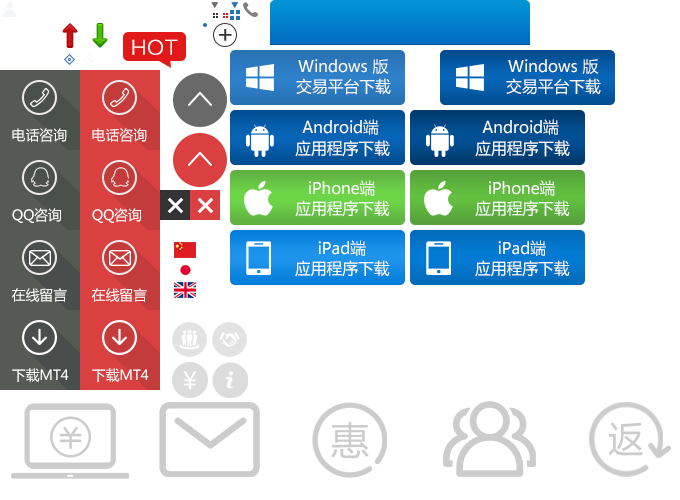
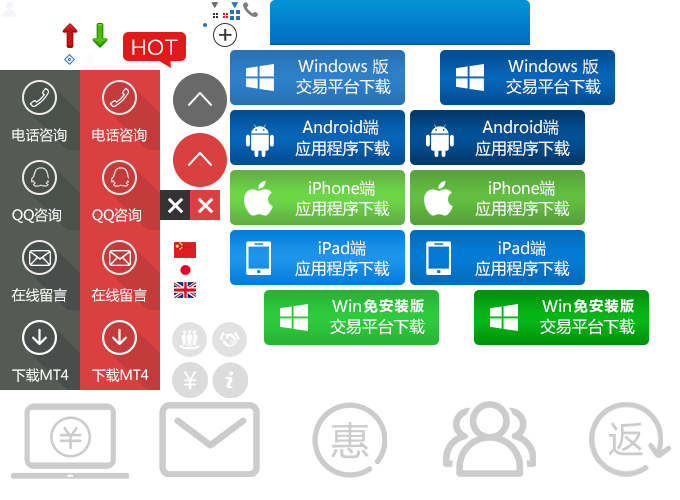
每日更新 10-25

Changed region(s): [[0.6794, 0.57, 0.9574, 0.69], [0.3706, 0.57, 0.6485, 0.69]]

diff --git a/index.html b/index.html
@@ -989,7 +989,9 @@ HEADER
 
 
                     <p>
-                        <a href="http://static.fxbtg-bank.com/CN/clientdown/FXBTG-MT4.exe" class="pc_button"></a><br/>
+                        <a href="http://static.fxbtg-bank.com/CN/clientdown/FXBTG-MT4.exe" class="pc_button"></a>
+                        <a href="http://static.fxbtg-bank.com/CN/clientdown/FXBTG-MT4.zip" class="pc2_button"></a>
+                        <br/>
                         <a class="btn btn-dc btn-small btn-main-color"
                            href="http://www.fxbtg-bank.com/Flv/advVideo/XMTY5OTcwNDg5Ng==">查看使用教程</a>
                     </p>
@@ -1108,7 +1110,7 @@ HEADER
         </div>
     </section>
     <!-- ==============================================
-	   每日分析  10-25
+	   每日分析  FXBTG：昙花一现，油价暴涨暴跌
 	   =============================================== -->
     <section id="about" class="big-padding">
         <div class="container">
@@ -1125,18 +1127,19 @@ HEADER
                     <ul class="timeline-v2">
                         <li class="equal-height-columns">
                             <div class="cbp_tmtime equal-height-column" style="height: 162px;">
-                                <span>16年10月25日</span>
+                                <span>16年10月27日</span>
                                 <span>September 2016</span>
                             </div>
                             <i class="cbp_tmicon rounded-x hidden-xs"></i>
                             <div class="cbp_tmlabel equal-height-column" style="height: 192px;">
-                                <h2>FXBTG：大选临近，美元强势攀升</h2>
+                                <h2>FXBTG：昙花一现，油价暴涨暴跌</h2>
                                 <h3>行情回顾</h3>
                                 <p>
-                                    随着大选临近及美元12月加息预期升温，10月24日（周一）美元指数强势突破2016年3月高点98.58，市价最高触及98.81，收盘98.75，后市剑指99.50压力关口。</p>
+                                    10月26日（周三）EIA公布的原油数据显示，上周美国原油库存意外下滑，油价短线拉升，油价突破50美元/桶关口。但受尼日利亚产量增加与产油国对减产计划的争执，原油市价随后快速回吐涨幅。</p>
                                 <h3>市场概况</h3>
                                 <p>
-                                    受美联储(FED)今年将加息的预期以及共和党总统候选人特朗普赢得大选的可能性下降等因素支撑。市场在消息面清谈状况下，美元指数强势突破2016年3月高点，非美货币则经短暂调整，再次回落。黄金市价维持1260---1270区间震荡。</p>
+                                    受美联储11月政策会议和11月8日美国总统选举影响，外汇市场投机情绪减弱，非美货币涨跌不一，欧元从周二触及的七个半月低点1.0848美元反弹，英镑兑美元上涨0.28%，黄金交投清淡，金价维持1276.00---1260.00小区域波动。
+                                </p>
 
                                 <h3>图表分析</h3>
                                 <!-- ##第二区 服务项目 开始-->
@@ -1163,13 +1166,13 @@ HEADER
                                     <div class="row tab-pane active" id="tu6">
                                         <div class="col-md-8">
                                             <p>EURUSD</p>
-                                            <P>欧元 市价运动类型：震荡空头 交易策略：利用市价反弹介入空头，多头观望。</P>
+                                            <P>欧元 市价运动类型：震荡 交易策略：以1.0900为分界岭进行多空选项操作或观望。</P>
 
                                             <!--  <P>交易策略：利用市价反弹寻找空头介入时机，短期目标1.1100---1.1070区域。 </P>-->
                                         </div>
                                         <div class="col-md-4">
                                             <img class="img-responsive"
-                                                 src="https://static.fxbtg-bank.com/UploadImages/2016/10/25/09c7b1df-8c1c-4e34-babf-57db5f5ba9cd.png"
+                                                 src="https://static.fxbtg-bank.com/UploadImages/2016/10/27/5ba91897-c5e2-48fb-bd21-991405d862a2.png"
                                                  alt="">
                                             <div class="md-margin-bottom-20"></div>
                                         </div>
@@ -1177,11 +1180,11 @@ HEADER
                                     <div class="row tab-pane" id="tu7">
                                         <div class="col-md-8">
                                             <p>GBPUSD</p>
-                                            <P>英镑 市价运动类型：震荡空头 英镑 市价运动类型：震荡 英镑 市价运动类型：震荡 交易策略：维持震荡空头思路，市价反弹压力区域介入空头。 </P>
+                                            <P>英镑 市价运动类型：震荡 交易策略：1.2280---1.2320区域介入空头，多头观望。</P>
                                         </div>
                                         <div class="col-md-4">
                                             <img class="img-responsive"
-                                                 src="https://static.fxbtg-bank.com/UploadImages/2016/10/25/dd8229be-2d8e-4a36-b37d-6d42766e1e77.png"
+                                                 src="https://static.fxbtg-bank.com/UploadImages/2016/10/27/2265a8de-330f-475a-882b-e8a4b9a19e78.png"
                                                  alt="">
                                             <div class="md-margin-bottom-20"></div>
                                         </div>
@@ -1189,12 +1192,12 @@ HEADER
                                     <div class="row tab-pane" id="tu8">
                                         <div class="col-md-8">
                                             <p>USDJPY</p>
-                                            <P>日元 市价运动类型：震荡多头 交易策略：104.00上方维持多头思路操作，止损104.80，短期目标105.30区域，空头观望。</P>
+                                            <P>日元 市价运动类型：震荡 交易策略：104.80--105.00区域介入空头或观望 。</P>
                                             <!-- <P>交易策略：保持短期多头思路，利用市价回落支撑区域介入多头。</P>-->
                                         </div>
                                         <div class="col-md-4">
                                             <img class="img-responsive"
-                                                 src="https://static.fxbtg-bank.com/UploadImages/2016/10/25/5c38b1c8-26d0-45e9-8c90-edf9c2670d25.png"
+                                                 src="https://static.fxbtg-bank.com/UploadImages/2016/10/27/14b47851-6b26-4f41-9bb1-0e8d8bd4a89d.png"
                                                  alt="">
                                             <div class="md-margin-bottom-20"></div>
                                         </div>
@@ -1202,12 +1205,12 @@ HEADER
                                     <div class="row tab-pane" id="tu9">
                                         <div class="col-md-8">
                                             <p>XAUUSD</p>
-                                            <P>黄金 市价运动类型：震荡 交易策略：中期观望，日内市价跌破1260轻仓跟随空头。</P>
+                                            <P>黄金 市价运动类型：震荡 交易策略：1260.00区域介入多头或观望。</P>
 
                                         </div>
                                         <div class="col-md-4">
                                             <img class="img-responsive"
-                                                 src="https://static.fxbtg-bank.com/UploadImages/2016/10/25/51f83fc5-f35b-4ee4-9dca-62cf203b0180.png"
+                                                 src="https://static.fxbtg-bank.com/UploadImages/2016/10/27/7487a831-d0df-42f4-9790-9c14f4785f72.png"
                                                  alt="">
                                             <div class="md-margin-bottom-20"></div>
                                         </div>
@@ -1216,11 +1219,12 @@ HEADER
 
                                         <div class="col-md-8">
                                             <p>XTIUSD</p>
-                                            <p>美原油 市价运动类型：震荡 交易策略：支撑区域寻找多头交易机会或观望。 </p>
+                                            <p>美原油 市价运动类型：震荡
+                                                交易策略：49.00---48.80区域介入多头，止损48.70，日内目标49.80----50.00，空头观望。</p>
                                         </div>
                                         <div class="col-md-4">
                                             <img class="img-responsive"
-                                                 src="https://static.fxbtg-bank.com/UploadImages/2016/10/25/911feaa4-50af-4005-84df-ae85b47213f9.png"
+                                                 src="https://static.fxbtg-bank.com/UploadImages/2016/10/27/ca7f24e0-cbe6-46d0-bdad-441925613a34.png"
                                                  alt="">
                                             <div class="md-margin-bottom-20"></div>
                                         </div>
@@ -1229,21 +1233,22 @@ HEADER
 
                             </div>
                         </li>
-                        <li class="equal-height-columns">
-                            <div class="cbp_tmtime equal-height-column" style="height: 162px;">
-                                <span>16年10月24日</span>
-                                <span>September 2016</span>
-                            </div>
-                            <i class="cbp_tmicon rounded-x hidden-xs"></i>
-                            <div class="cbp_tmlabel equal-height-column" style="height: 192px;">
-                                <h2>FXBTG：德拉基论调打压欧元，美元借势上扬</h2>
-                                <h3>行情回顾</h3>
-                                <p>近来的经济数据表现亮眼的同时，希拉里在美国大选的优势亦日益明显，美元随着多重利好因素节节攀高，美元指数涨至八个月高位98.78。</p>
-                                <h3>市场概况</h3>
-                                <p>
-                                    本月欧洲央行本月利率决议公布及欧洲央行会后声明平淡温和，欧元兑美元惨淡下跌的同时带动其他非美货币下跌，美元强势上扬。而黄金受1250买盘支撑，市价升至1260上方。</p>
-                                <h3>图表分析</h3>
-                                <!-- ##第二区 服务项目 开始-->
+                        <!-- ==============================================
+					   <li class="equal-height-columns">
+						   <div class="cbp_tmtime equal-height-column" style="height: 162px;">
+							   <span>16年10月24日</span>
+							   <span>September 2016</span>
+						   </div>
+						   <i class="cbp_tmicon rounded-x hidden-xs"></i>
+						   <div class="cbp_tmlabel equal-height-column" style="height: 192px;">
+							   <h2>FXBTG：德拉基论调打压欧元，美元借势上扬</h2>
+							   <h3>行情回顾</h3>
+							   <p>近来的经济数据表现亮眼的同时，希拉里在美国大选的优势亦日益明显，美元随着多重利好因素节节攀高，美元指数涨至八个月高位98.78。</p>
+							   <h3>市场概况</h3>
+							   <p>
+								   本月欧洲央行本月利率决议公布及欧洲央行会后声明平淡温和，欧元兑美元惨淡下跌的同时带动其他非美货币下跌，美元强势上扬。而黄金受1250买盘支撑，市价升至1260上方。</p>
+							   <h3>图表分析</h3>
+
                                 <div class="text-center">
                                     <div class="btn-group">
                                         <button type="button" href="#tu11" class="btn btn-default toggle-tabs active">
@@ -1268,7 +1273,7 @@ HEADER
                                         <div class="col-md-8">
                                             <p>EURUSD</p>
                                             <P>欧元 市价运动类型：震荡空头 交易策略：维持空头操作，多头回避。</P>
-                                            <!--  <P>交易策略：利用市价反弹寻找空头介入时机，短期目标1.1100---1.1070区域。 </P>-->
+
                                         </div>
                                         <div class="col-md-4">
                                             <img class="img-responsive"
@@ -1293,7 +1298,7 @@ HEADER
                                         <div class="col-md-8">
                                             <p>USDJPY</p>
                                             <P>日元 市价运动类型：震荡 交易策略：支撑阻力区域进行多空选项操作，紧密关注压力区域可能的突破的机会。</P>
-                                            <!-- <P>交易策略：保持短期多头思路，利用市价回落支撑区域介入多头。</P>-->
+
                                         </div>
                                         <div class="col-md-4">
                                             <img class="img-responsive"
@@ -1348,7 +1353,7 @@ HEADER
                                     随着美国大选推进，大选前景为美元提供支撑。同时美联储官员鹰派言论亦为美元提供上升动能，美元指数升至7个月高位。欧元受央行言论打压跌至4个月低位，其他非美货币则呈不同跌幅。黄金小幅震荡，原油自高位回落。
                                 </p>
                                 <h3>图表分析</h3>
-                                <!-- ##第二区 服务项目 开始-->
+
                                 <div class="text-center">
                                     <div class="btn-group">
                                         <button type="button" href="#tu1" class="btn btn-default toggle-tabs active">
@@ -1373,7 +1378,7 @@ HEADER
                                         <div class="col-md-8">
                                             <p>EURUSD</p>
                                             <P>欧元 市价运动类型：震荡空头 交易策略：市价反弹1.0950区域介入空头，目标1.0880区域，市价升破1.0980空头仓位择机离场。</P>
-                                            <!--  <P>交易策略：利用市价反弹寻找空头介入时机，短期目标1.1100---1.1070区域。 </P>-->
+
                                         </div>
                                         <div class="col-md-4">
                                             <img class="img-responsive"
@@ -1398,7 +1403,7 @@ HEADER
                                         <div class="col-md-8">
                                             <p>USDJPY</p>
                                             <P>日元 市价运动类型：震荡 交易策略：支撑阻力区域进行多空选项操作或观望。</P>
-                                            <!-- <P>交易策略：保持短期多头思路，利用市价回落支撑区域介入多头。</P>-->
+
                                         </div>
                                         <div class="col-md-4">
                                             <img class="img-responsive"
@@ -1439,7 +1444,7 @@ HEADER
                                 </div>
                             </div>
                         </li>
-
+                =============================================== -->
 
 
 

diff --git a/page1.html b/page1.html
@@ -15,14 +15,16 @@
 
 <br/>
 <p>
-    1、活动时间:2016年3月1日-2016年9月30日<br/><br/>
-    2、此活动赠金在未完成交易手数之前账户不可申请出金或者转账操作<br/><br/>
-    3、已经参与此获得入金赠金，如再次入金申请赠金需先完成之前赠金交易手数或者将账户之前申请赠金清除才可再次申请，例如第一次入金2000美金申请赠金200美金，第二次入金2000美金，如账户之前申请赠金还存在账户则不可再次申请；如之前申请赠金已完成要求交易手数转为真实资金或者账户爆仓赠金被扣除可再次申请200赠金<br/><br/>
-    4、如遇银行限额及其它原因需多次入金，系统会自动将第一次入金至入金后首次下单期间所有的入金总量记录为一次单次入金量<br/><br/>
-    5、自赠金注入账户之后开仓的订单开始计入累计交易手数，之前未平仓订单不计入累计，赠金到期未平仓订单量也不计入累计<br/><br/>
+    1、本活动长期有效。</br>
+    2、未完成交易手数出金或转账赠金将被扣除，赠金注入之日起开始计算手数。</br>
+    3、已经参与此获得入金赠金，如再次入金申请赠金需先完成之前赠金交易手数或者将账户之前申请赠金清除才可再次申请，例如第一次入金5000美金申请赠金500美金，第二次入金5000美金，如账户之前申请赠金还存在账户则不可再次申请；如之前申请赠金已完成要求交易手数转为真实资金或者账户爆仓赠金被扣除可再次申请500赠金。</br>
+    4、如遇银行限额及其它原因需多次入金，系统会自动将第一次入金至入金后首次下单期间所有的入金总量记录为一次单次入金量。</br>
+    5、自赠金注入账户之后开仓的订单开始计入累计交易手数，之前未平仓订单不计入累计；在持有赠金期间账户如有转账或者出金申请，均作为放弃赠金处理，账户所有赠金将被扣除；</br>
+    6、赠金扣除标准：如账户余额小于$50，账户所有赠金将被扣除；如账户净值所有赠金额度时，账户所有赠金将被扣除；</br>
+    7、入金满额后，客户登入自己的“在线办公室”，点击左下角的“业务受理”，选择“申请赠金”。申请内容中，简要说明自己的入金量和申请赠金的量即可。</br>
+    8、申请赠金有效期为入金后的五个工作日内。</br>
+    9、由上级代理转账至客户交易账户的资金，可计算为新增入金金额。</br>
 </p>
-
-
 
 
 
@@ -33,7 +35,8 @@
 <P style="text-align: right">
     FXBTG金融集团 2016.7.19
 </P>
-<p class="text-center margin-top"><a class="btn btn-dc btn-main-color" href="http://www.fxbtg-bank.com/Market/Active/63"> 查看活动详情</a></p>
+<p class="text-center margin-top"><a class="btn btn-dc btn-main-color" href="http://www.fxbtg-bank.com/Activity/Bonus">
+    查看活动详情</a></p>
 
 </body>
 </html>

diff --git a/page6.html b/page6.html
@@ -11,15 +11,13 @@
 
 
 <H2>详细规则</H2>
-<P>1、旗下客户总入金量达到5万美金，赠送2个月VIP代理体验时间，业绩达到后的次月开始计算；</P>
+<P>1、旗下客户总入金量新增5万美金，赠送2个月VIP代理体验时间，业绩达到后的次月开始计算；</P>
 
-<P>2、旗下客户总入金量达到10万美金，赠送2个月高级代理体验时间，业绩达到后的次月开始计算；</P>
+<P>2、旗下客户总入金量新增10万美金，赠送2个月高级代理体验时间，业绩达到后的次月开始计算；</P>
 
-<P>3、32016年9月1日之前注册的用户即有资格参加；</P>
+<P>3、活动起始于2016年10月24日，截止于2016年12月31日；</P>
 
-<P>4、活动起始于2016年10月24日，截止于2016年12月31日；</P>
-
-<P>5、多个活动，可同时参加，先参加的活动，手数先计算，单笔资金，对应单个活动。</P>
+<P>4、多个活动，可同时参加，先参加的活动，手数先计算，单笔资金，对应单个活动。</P>
 
 <p class="text-center margin-top"><a class="btn btn-dc btn-main-color" href="/Activity/OctoberB"> 查看详情 </a></p>
 </body>

diff --git a/assets/css/vis.css b/assets/css/vis.css
@@ -323,17 +323,26 @@
     margin-bottom: 20px;
 }
 .pc_button {display:inline-block;width:203px; height:55px; background:url(../image/icon.png) -230px -50px no-repeat; margin:10px 0;}
+
+.pc2_button {
+    display    : inline-block;
+    width      : 203px;
+    height     : 55px;
+    background : url(../image/icon.png) -260px -290px no-repeat;
+    margin     : 10px 0;
+}
 .but_Android,.but_iPhone,.but_iPad {display:inline-block;width:175px; height:55px; background-image:url(../image/icon.png); background-repeat:no-repeat; margin-right:10px;}
 .but_Android {background-position:-230px -110px;}
 .but_iPhone {background-position:-230px -170px;}
 .but_iPad {background-position:-230px -230px;}
 .pc_button:hover {background-position:-440px -50px;}
+
+.pc2_button:hover {
+    background-position : -470px -290px;
+}
 .but_Android:hover {background-position:-410px -110px;}
 .but_iPhone:hover {background-position:-410px -170px;}
 .but_iPad:hover {background-position:-410px -230px;}
-.pc_button:hover {
-    background-position: -440px -50px;
-}
 .push-down {
     margin-top: 50px;}
     /*tws.html新增加样式*/
